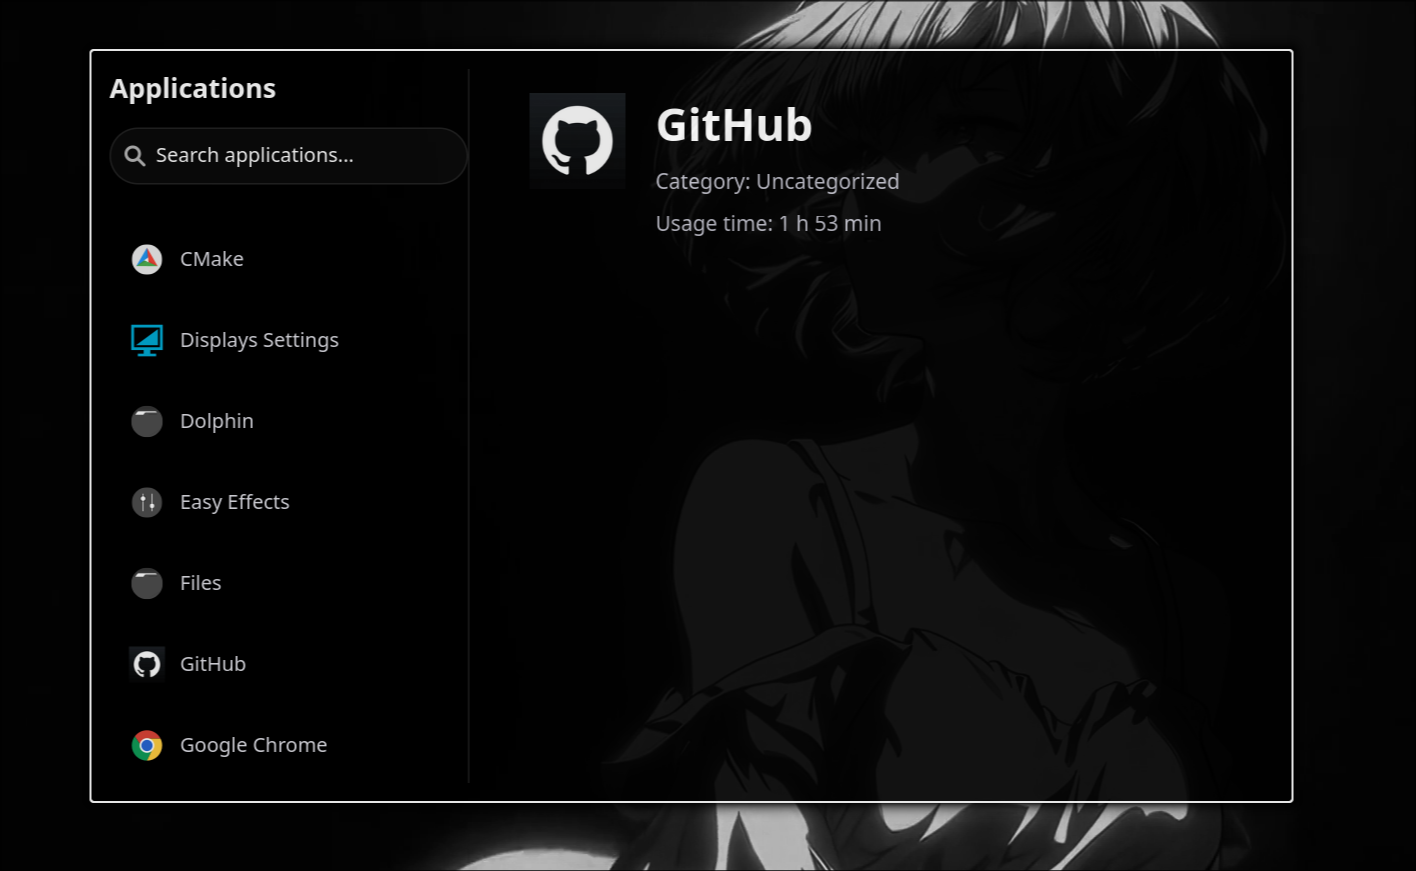
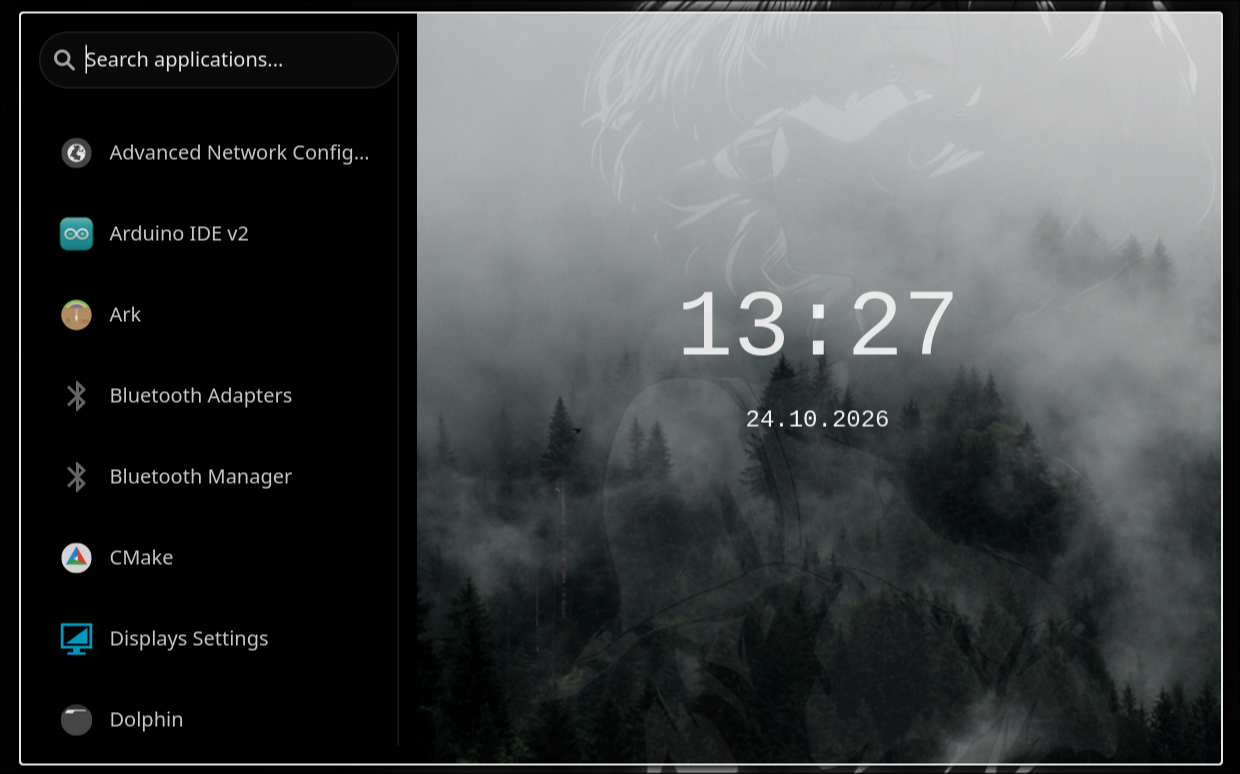
Добавление отображения даты на главный экран и обновление её каждую секунду

diff --git a/src/gui.cpp b/src/gui.cpp
@@ -12,6 +12,7 @@
 #include <chrono>
 #include <ctime>
 #include <iomanip>
+#include <time.h>
 
 #include "gui.hpp"
 #include "handlers.hpp"
@@ -162,6 +163,7 @@ public:
         wallpaper.set_visible(true);
         dim_overlay.set_visible(true);
         clock_label.set_visible(true);
+        date_label.set_visible(true);
         details_header.set_visible(false);
     }
 
@@ -173,9 +175,20 @@ public:
         localtime_r(&now, &local_time);
 
         std::ostringstream output;
-        output << std::put_time(&local_time, "%H:%M:%S");
+        output << std::put_time(&local_time, "%H:%M");
 
         clock_label.set_text(output.str());
+    }
+
+    void update_date()
+    {
+        time_t now = time(nullptr);
+        tm* local = localtime(&now);
+
+        char date[32];
+        strftime(date, sizeof(date), "%d.%m.%Y", local);
+
+        date_label.set_text(date);
     }
 
     MainWindow()
@@ -240,14 +253,28 @@ public:
         clock_label.set_margin(10);
         clock_label.add_css_class("home-clock");
 
+        date_label.set_halign(Gtk::Align::FILL);
+        date_label.set_valign(Gtk::Align::FILL);
+        date_label.set_hexpand(true);
+        date_label.set_vexpand(true);
+        date_label.set_halign(Gtk::Align::FILL);
+        date_label.set_justify(Gtk::Justification::CENTER);
+        date_label.set_xalign(0.5f);
+        date_label.set_yalign(0.55f);
+        date_label.set_margin(10);
+        date_label.add_css_class("date");
+
         content_overlay.add_overlay(clock_label);
+        content_overlay.add_overlay(date_label);
 
         update_clock();
+        update_date();
 
         Glib::signal_timeout().connect(
             [this]()
             {
                 update_clock();
+                update_date();
                 return true;
             },
             1000
@@ -325,6 +352,7 @@ private:
     Gtk::Picture wallpaper;
     Gtk::Box dim_overlay{Gtk::Orientation::VERTICAL};
     Gtk::Label clock_label;
+    Gtk::Label date_label;
 
     Gtk::Box details_header{Gtk::Orientation::HORIZONTAL};
     Gtk::Box details_info{Gtk::Orientation::VERTICAL};
@@ -400,6 +428,7 @@ private:
         wallpaper.set_visible(false);
         dim_overlay.set_visible(false);
         clock_label.set_visible(false);
+        date_label.set_visible(false);
     }
 
     void rebuild_app_list(const std::string& query = "")
